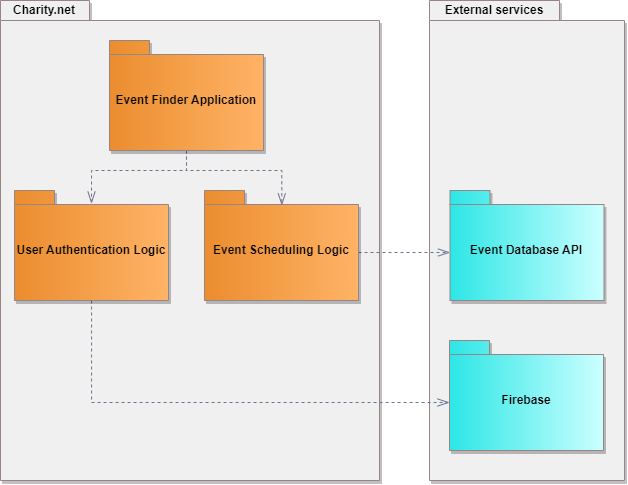
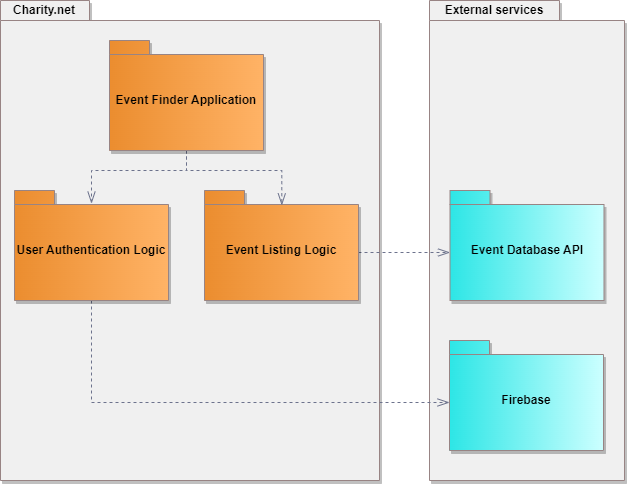
replaced 'Event Scheduling' with 'Event Listing' in architecture diagrams

diff --git a/app/lib/main.dart b/app/lib/main.dart
@@ -1,3 +1,4 @@
+import 'package:app/pages/login.dart';
 import 'package:flutter/material.dart';
 
 void main(){
@@ -5,37 +6,13 @@ void main(){
 }
 
 class CharityNet extends StatelessWidget {
-  const CharityNet({Key? key}) : super(key: key);
+  const CharityNet({super.key});
 
   @override
   Widget build(BuildContext context) {
-    return MaterialApp(
-      home: Scaffold(
-        appBar: AppBar(
-          backgroundColor: Colors.red,
-          title: const Text("Hello World!"),
-        ),
-
-        bottomNavigationBar: BottomNavigationBar(
-          items: const [
-            BottomNavigationBarItem(
-              icon: Icon(Icons.abc),
-              label: 'abc',
-            ),
-            BottomNavigationBarItem(
-              icon: Icon(Icons.home),
-              label: 'Home',
-            ),
-            BottomNavigationBarItem(
-              icon: Icon(Icons.person_2_rounded),
-              label: 'Profile',
-            ),
-          ],
-          showSelectedLabels: true,
-          showUnselectedLabels: false,
-        ),
-
-      ),
+    return const MaterialApp(
+      debugShowCheckedModeBanner: false,
+      home: LoginPage(),
     );
   }
 }

diff --git a/app/lib/pages/login.dart b/app/lib/pages/login.dart
@@ -1,0 +1,27 @@
+import 'package:flutter/material.dart';
+
+class LoginPage extends StatelessWidget {
+  const LoginPage({super.key});
+
+  @override
+  Widget build(BuildContext context) {
+    return Scaffold(
+      backgroundColor: Colors.blueGrey,
+      body: SafeArea(
+        child: Column(
+          children: [
+            // logo
+            Center(
+              child: Icon(
+                Icons.lock,
+                size: 100
+              ),
+            ),
+
+            // Google sign-in
+          ],
+        ),
+      ),
+    );
+  }
+}
